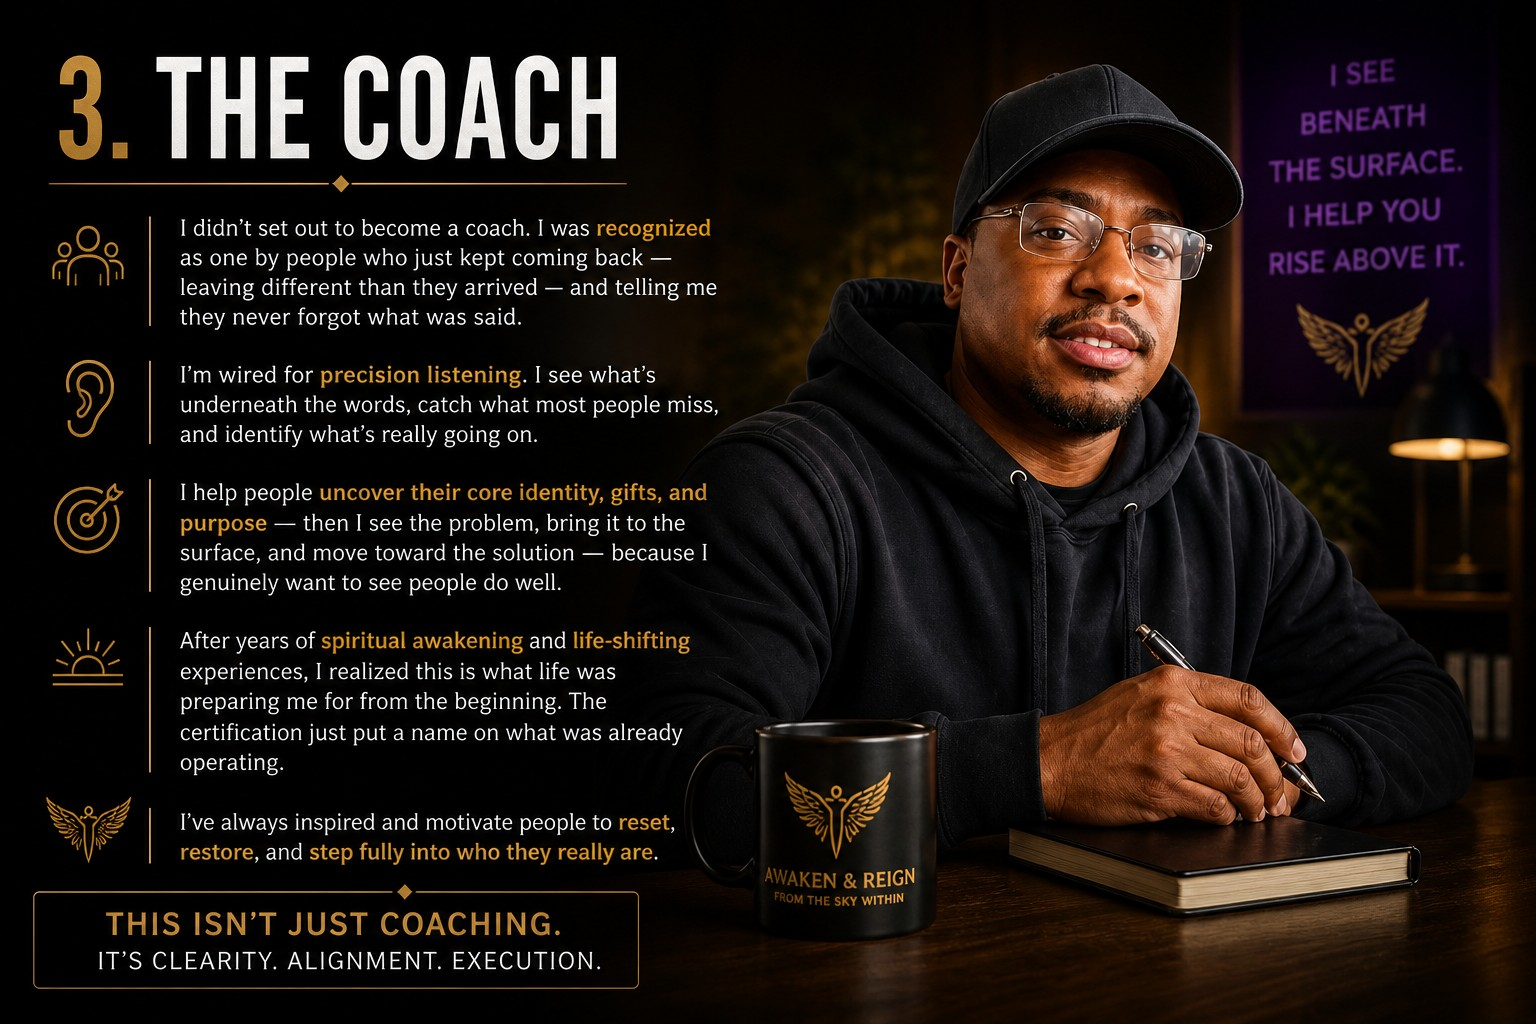
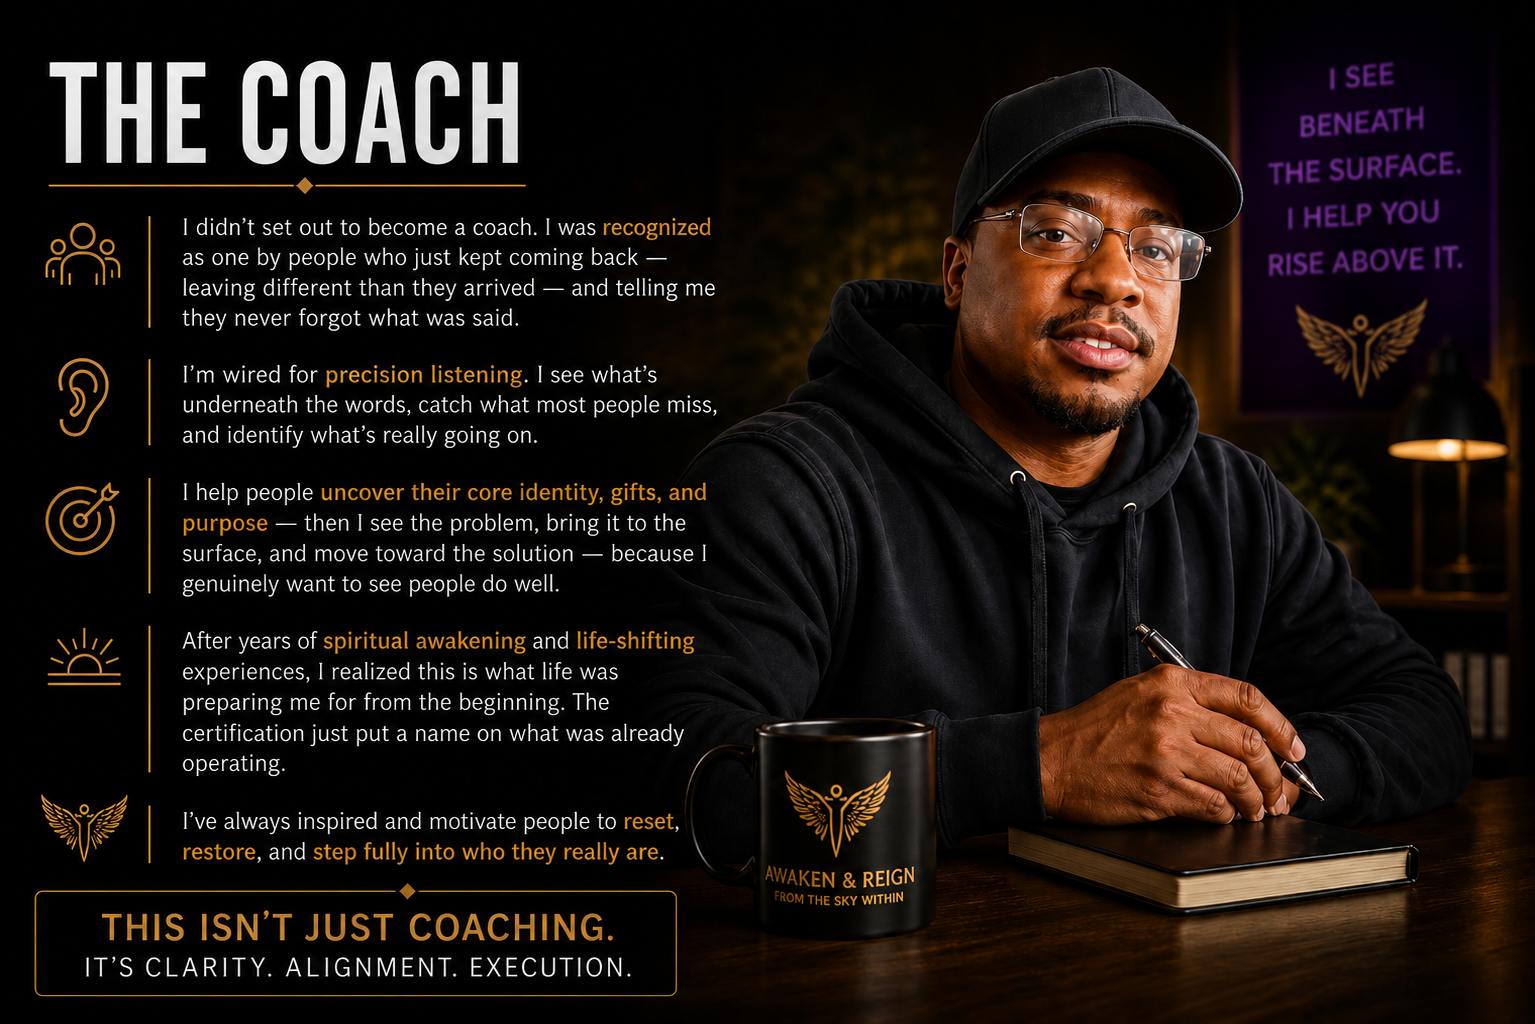
Add files via upload

diff --git a/index.html b/index.html
@@ -3,44 +3,32 @@
 <head>
 <meta charset="utf-8"><meta name="viewport" content="width=device-width, initial-scale=1">
 <title>Awaken & Reign Studios</title>
-<meta name="description" content="Life Coaching, Nervous System Reset, Brain Entrainment, Vibroacoustic Therapy, and Music Healing.">
+<meta name="description" content="Awaken & Reign Studios — Life coaching, nervous system reset, vibroacoustic therapy, brain entrainment, and music healing.">
 <link rel="preconnect" href="https://fonts.googleapis.com"><link rel="preconnect" href="https://fonts.gstatic.com" crossorigin>
 <link href="https://fonts.googleapis.com/css2?family=Cinzel:wght@600;700;800&family=Inter:wght@400;500;600;700&display=swap" rel="stylesheet">
 <link rel="stylesheet" href="styles.css">
 </head>
 <body>
-<header class="nav"><div class="brand">AWAKEN & REIGN</div><a class="navbtn" href="#contact">Begin</a></header>
-<main>
-<section class="hero">
-<img src="assets/01-hero.png" alt="Awaken and Reign Studios">
-<div class="heroText">
-<p class="eyebrow">From the Sky Within</p>
-<h1>AWAKEN & REIGN<br><span>STUDIOS</span></h1>
-<p class="services">Life Coaching • Nervous System Reset • Brain Entrainment • Vibroacoustic Therapy • Music Healing</p>
-<div class="buttons"><a class="button gold" href="https://www.facebook.com/" target="_blank">Message to Begin</a><a class="button outline" href="tel:+17855801679">Call or Text</a></div>
-</div>
-</section>
-
-<section class="image-card"><img src="assets/02-soul-identity.jpg" alt="Soul identity"></section>
-<section class="image-card"><img src="assets/03-weight-you-carry.png" alt="The weight you carry"></section>
-
-<section class="split"><img src="assets/04-vagus-nerve.jpg" alt="Vagus nerve"><div class="copy"><p class="eyebrow">Nervous System Reset</p><h2>The Body Comes Back To Safety First</h2><p>The vagus nerve connects the brain, heart, lungs, gut, and emotional regulation system. When the body leaves survival mode, clarity, rest, repair, and restoration become easier to access.</p><details><summary>Learn More</summary><p>The vagus nerve is one of the most important communication pathways in the body. Chronic stress, emotional overload, trauma, anxiety, or survival-mode living can leave the nervous system dysregulated. This may show up as anxiety, sleep issues, brain fog, overwhelm, emotional heaviness, or difficulty relaxing. The goal is helping the body shift from fight-or-flight into a calmer, restorative state where healing becomes possible.</p></details></div></section>
-
-<section class="split reverse"><img src="assets/05-coach.png" alt="The coach"><div class="copy"><p class="eyebrow">Identity & Alignment</p><h2>Blueprint Reading</h2><p>This work helps uncover core identity, gifts, purpose, emotional patterns, relationship dynamics, blocks, and the healing path that fits how you are wired.</p><details><summary>Learn More</summary><p>The Blueprint Reading is not traditional astrology. It uses ancient pattern recognition methods involving elements, animals, seasons, energetic patterns, and personality wiring. The purpose is self-understanding, not prediction. The reading is combined with your real life experiences, emotional blocks, nervous system patterns, and goals to guide personalized recommendations for coaching, brain entrainment, vibroacoustic therapy, emotional processing, creative expression, and alignment.</p></details></div></section>
-
-<section class="split"><img src="assets/06-brain-entrainment.png" alt="Brain entrainment"><div class="copy"><p class="eyebrow">Light + Sound</p><h2>Brain Entrainment</h2><p>Guided light and sound frequencies help shift the brain from stress, overwhelm, and mental noise into calmer states connected to clarity, focus, deep relaxation, and restoration.</p><details><summary>Learn More</summary><p>Brain entrainment uses selected frequencies of sound, rhythm, and light stimulation to encourage the brain to shift into different brainwave states. Visual light stimulation uses rhythmic pulses through the eyes and optic pathways. Binaural tones use slightly different tones in each ear, and the brain responds to the difference between them. These sessions may support stress reduction, relaxation, focus, emotional processing, nervous system regulation, and restorative states.</p></details></div></section>
-
-<section class="image-card"><img src="assets/07-brainwave-guide.png" alt="Brainwave guide"></section>
-<section class="image-card"><img src="assets/08-brainwave-chart.png" alt="Brainwave chart"></section>
-
-<section class="split reverse"><img src="assets/09-music-therapy.png" alt="Music therapy"><div class="copy"><p class="eyebrow">Optional Add-On</p><h2>Music & Vocal Expression</h2><p>Creative expression can become a powerful form of emotional release. Sometimes healing begins when what was trapped internally finally finds expression.</p></div></section>
-
-<section class="image-card"><img src="assets/10-testimonials.jpg" alt="Testimonials"></section>
-<section class="testimonials"><p class="eyebrow">Real Experiences</p><h2>What People Are Experiencing</h2><div class="grid"><article>★★★★★<p>“I felt my nervous system finally slow down for the first time in years.”</p><span>Session Experience</span></article><article>★★★★★<p>“The vibroacoustic session felt like my body remembered how to relax.”</p><span>Session Experience</span></article><article>★★★★★<p>“I left feeling mentally lighter, emotionally calmer, and physically reset.”</p><span>Session Experience</span></article></div></section>
-
-<section class="image-card"><img src="assets/11-final-message.jpg" alt="Final message"></section>
-
-<section id="contact" class="contact"><p class="eyebrow">Ready To Begin?</p><h2>You are not broken.<br>You may just be in the wrong state.</h2><p>Whether you are seeking clarity, emotional release, nervous system restoration, deeper self-understanding, or personal transformation — this work is designed to help you reconnect with who you truly are.</p><div class="buttons"><a class="button gold" href="https://www.facebook.com/" target="_blank">Facebook Messenger</a><a class="button outline" href="tel:+17855801679">Call / Text: (785) 580-1679</a><a class="button outline" href="mailto:[email redacted]">Email</a></div><p class="cashapp">Cash App: <strong>$Xcellblueprint</strong></p></section>
-<section class="image-card"><img src="assets/12-contact-footer.jpg" alt="Contact footer"></section>
-<footer><h3>AWAKEN & REIGN</h3><p>FROM THE SKY WITHIN</p><p>Shift your state. Change your life.</p></footer>
-</main></body></html>
+<header class="topbar"><a href="#top" class="brand">AWAKEN & REIGN</a><a href="#contact" class="top-button">Begin</a></header>
+<main id="top">
+<section class="panel full"><img src="assets/01-hero.png" alt="Awaken and Reign Studios"></section>
+<section class="panel"><img src="assets/02-soul.jpg" alt="Soul identity"></section>
+<section class="panel"><img src="assets/03-weight.png" alt="The weight you carry"></section>
+<section class="panel"><img src="assets/04-vagus.jpg" alt="Vagus nerve"></section>
+<section class="learn"><p class="eyebrow">Nervous System Reset</p><h2>The body comes back to safety first.</h2><details><summary>Learn More</summary><p>The vagus nerve is one of the body’s major communication pathways, connecting the brain, heart, lungs, gut, and nervous system.</p><p>When stress, trauma, anxiety, grief, or survival-mode living builds over time, the nervous system can stay on high alert. The goal is helping the body move toward regulation, safety, calm, and restoration.</p></details></section>
+<section class="panel"><img src="assets/05-coach.png" alt="The coach"></section>
+<section class="learn"><p class="eyebrow">Identity & Alignment Coaching</p><h2>Understand your wiring. Reconnect with who you are.</h2><details><summary>Learn More</summary><p>The Blueprint Reading is not traditional astrology. It uses ancient pattern recognition methods involving elements, animals, seasons, energetic patterns, and personality wiring.</p><p>The purpose is self-understanding, not prediction. It helps identify natural strengths, emotional tendencies, relationship dynamics, money patterns, career or entrepreneurial lanes, internal conflicts, repeating blocks, gifts, and purpose.</p><p>That insight is combined with your life experiences and current struggles to personalize coaching, nervous system work, brain entrainment, vibroacoustic therapy, emotional processing, and creative expression.</p></details><div class="cta-row"><a class="button gold" href="https://docs.google.com/forms/d/e/1FAIpQLSfs3_eT3UevLYMrKf-1YZpfzbIs9iT1134tiZ7iK4jW0TnIIw/viewform" target="_blank" rel="noopener">Begin Intake</a><a class="button outline" href="tel:+17855801679">Call or Text</a></div></section>
+<section class="panel"><img src="assets/06-vibroacoustic.png" alt="Vibroacoustic therapy"></section>
+<section class="learn"><p class="eyebrow">Vibroacoustic Therapy</p><h2>Sound you don’t just hear — you feel.</h2><details><summary>Learn More</summary><p>Vibroacoustic therapy uses low-frequency sound vibrations transmitted through the body using specialized equipment. Instead of only hearing sound, the body physically feels it.</p><p>Stress does not only live in the mind. Many people carry it physically through shallow breathing, muscle tension, guarded posture, tightness, emotional suppression, and nervous system dysregulation.</p><p>The vibration can support deep relaxation, emotional release, nervous system calming, tension release, and restoration.</p></details></section>
+<section class="panel"><img src="assets/07-brain-entrainment.png" alt="Brain entrainment"></section>
+<section class="learn"><p class="eyebrow">Brain Entrainment</p><h2>Light and sound guide the mind back into rhythm.</h2><details><summary>Learn More</summary><p>Brain entrainment uses selected frequencies of light, sound, rhythm, and binaural tones to encourage the brain to shift into different brainwave states.</p><p>Visual light stimulation uses rhythmic pulses through the eyes and optic pathways. Binaural tones use slightly different tones in each ear, and the brain responds to the difference between them.</p><p>These sessions may support stress reduction, relaxation, focus, emotional processing, nervous system regulation, sleep support, mental clarity, and restorative states.</p></details></section>
+<section class="panel"><img src="assets/08-brainwave.png" alt="Brainwave states"></section>
+<section class="panel"><img src="assets/09-music.png" alt="Music and vocal expression"></section>
+<section class="learn compact"><p class="eyebrow">Optional Add-On</p><h2>Music & Vocal Expression</h2><p>Creative expression can become a powerful form of emotional release. Sometimes healing begins when what was trapped internally finally finds expression.</p></section>
+<section class="panel"><img src="assets/10-testimonials.png" alt="Testimonials"></section>
+<section class="testimonial-cards"><p class="eyebrow">Real Experiences</p><h2>What People Are Experiencing</h2><div class="cards"><article><span>★★★★★</span><p>“I felt my nervous system finally slow down for the first time in years.”</p><small>Session Experience</small></article><article><span>★★★★★</span><p>“The vibroacoustic session felt like my body remembered how to relax.”</p><small>Session Experience</small></article><article><span>★★★★★</span><p>“I left feeling mentally lighter, emotionally calmer, and physically reset.”</p><small>Session Experience</small></article></div></section>
+<section class="panel"><img src="assets/11-closing.jpg" alt="Closing statement"></section>
+<section id="contact" class="contact"><p class="eyebrow">Ready To Begin?</p><h2>Awaken & Reign Studios</h2><p class="contact-copy">Life Coaching • Nervous System Reset • Vibroacoustic Therapy • Brain Entrainment • Music Healing</p><div class="cta-row contact-buttons"><a class="button gold" href="https://docs.google.com/forms/d/e/1FAIpQLSfs3_eT3UevLYMrKf-1YZpfzbIs9iT1134tiZ7iK4jW0TnIIw/viewform" target="_blank" rel="noopener">Begin Intake</a><a class="button outline" href="tel:+17855801679">Call / Text (785) 580-1679</a><a class="button outline" href="mailto:[email redacted]">Email</a></div><div class="contact-grid"><div><strong>Phone</strong><br>(785) 580-1679</div><div><strong>Email</strong><br>[email redacted]</div><div><strong>Facebook Messenger</strong><br>Awaken and Reign Studios</div><div><strong>Cash App</strong><br>$Xcellblueprint</div></div><p class="final-line">From the Sky Within</p></section>
+</main>
+</body>
+</html>

diff --git a/styles.css b/styles.css
@@ -1,1 +1,1 @@
-:root{--black:#050505;--gold:#d4a44f;--purple:#8b5cf6;--soft:#f5f5f5;--muted:#cfcfcf}*{box-sizing:border-box}html{scroll-behavior:smooth}body{margin:0;background:var(--black);color:var(--soft);font-family:Inter,system-ui,sans-serif}img{max-width:100%;display:block}.nav{position:fixed;top:0;left:0;right:0;z-index:50;display:flex;align-items:center;justify-content:space-between;padding:18px 6vw;background:linear-gradient(to bottom,rgba(0,0,0,.75),rgba(0,0,0,.05));backdrop-filter:blur(8px)}.brand{font-family:Cinzel,serif;color:var(--gold);font-weight:800;letter-spacing:.12em;font-size:14px}.navbtn{color:#000;background:var(--gold);padding:10px 18px;border-radius:999px;text-decoration:none;font-weight:800}.hero{position:relative;min-height:100vh;background:#000;overflow:hidden}.hero>img{position:absolute;inset:0;width:100%;height:100%;object-fit:cover;opacity:.9}.hero:after{content:"";position:absolute;inset:0;background:linear-gradient(to bottom,rgba(0,0,0,.72),rgba(0,0,0,.22),rgba(0,0,0,.9))}.heroText{position:relative;z-index:2;min-height:100vh;display:flex;flex-direction:column;align-items:center;justify-content:center;text-align:center;padding:120px 22px 80px}.eyebrow{text-transform:uppercase;letter-spacing:.35em;color:var(--gold);font-size:12px;font-weight:800}h1,h2,h3{font-family:Cinzel,serif;margin:0}h1{font-size:clamp(42px,8vw,94px);line-height:.95;color:var(--gold);text-shadow:0 0 30px rgba(212,164,79,.3)}h1 span{font-size:.5em;color:#fff;letter-spacing:.25em}.services{max-width:850px;font-size:clamp(16px,2vw,22px);line-height:1.7;color:#f2f2f2}.buttons{display:flex;gap:14px;flex-wrap:wrap;justify-content:center;margin-top:30px}.button{display:inline-flex;align-items:center;justify-content:center;min-height:48px;padding:13px 23px;border-radius:999px;text-decoration:none;font-weight:900;letter-spacing:.03em;transition:.25s}.button.gold{background:var(--gold);color:#000}.button.outline{border:1px solid rgba(212,164,79,.8);color:var(--gold);background:rgba(0,0,0,.3)}.button:hover{transform:translateY(-2px);box-shadow:0 0 28px rgba(212,164,79,.25)}.image-card{padding:42px clamp(14px,4vw,70px);background:radial-gradient(circle at 50% 10%,rgba(139,92,246,.13),transparent 35%),#050505}.image-card img{width:100%;max-width:1180px;margin:auto;border-radius:28px;border:1px solid rgba(212,164,79,.22);box-shadow:0 24px 80px rgba(0,0,0,.7)}.split{display:grid;grid-template-columns:1.05fr .95fr;gap:38px;align-items:center;max-width:1180px;margin:auto;padding:70px clamp(18px,5vw,70px);background:#050505}.split.reverse img{order:2}.split img{border-radius:28px;border:1px solid rgba(212,164,79,.25);box-shadow:0 20px 70px rgba(139,92,246,.13)}.copy h2{font-size:clamp(32px,5vw,58px);line-height:1.05;color:#fff;margin:10px 0 18px}.copy p,.contact p{color:var(--muted);font-size:18px;line-height:1.75}details{margin-top:25px;background:linear-gradient(145deg,rgba(212,164,79,.08),rgba(139,92,246,.08));border:1px solid rgba(212,164,79,.32);border-radius:20px;overflow:hidden}summary{cursor:pointer;list-style:none;color:var(--gold);font-weight:900;padding:18px 22px}summary::-webkit-details-marker{display:none}details p{padding:0 22px 22px;font-size:16px!important;line-height:1.75!important}.testimonials{padding:90px clamp(18px,5vw,70px);text-align:center;background:radial-gradient(circle at center,rgba(212,164,79,.14),transparent 38%),#050505}.testimonials h2{font-size:clamp(34px,5vw,62px);margin:10px 0 40px}.grid{display:grid;grid-template-columns:repeat(3,1fr);gap:20px;max-width:1100px;margin:auto;text-align:left}.grid article{background:rgba(255,255,255,.045);border:1px solid rgba(212,164,79,.25);border-radius:24px;padding:24px;color:var(--gold)}.grid p{color:#eee;line-height:1.7}.grid span{color:#aaa}.contact{text-align:center;padding:110px clamp(20px,6vw,90px);background:radial-gradient(circle at 50% 0%,rgba(212,164,79,.25),transparent 42%),linear-gradient(to bottom,#080808,#000)}.contact h2{font-size:clamp(36px,6vw,76px);color:var(--gold);line-height:1.05}.contact p{max-width:850px;margin:22px auto}.cashapp{color:var(--gold)!important}footer{text-align:center;padding:45px 20px;border-top:1px solid rgba(212,164,79,.25);background:#000}footer h3{color:var(--gold);font-size:28px}footer p{color:#aaa}@media(max-width:800px){.nav{padding:14px 18px}.brand{font-size:12px}.split,.split.reverse{grid-template-columns:1fr;padding:38px 16px}.split.reverse img{order:0}.grid{grid-template-columns:1fr}.image-card{padding:24px 10px}.image-card img,.split img{border-radius:18px}}
+*{box-sizing:border-box}:root{--bg:#050505;--gold:#d4a44f;--purple:#8b5cf6;--white:#f5f5f5;--muted:#cfcfcf}html{scroll-behavior:smooth}body{margin:0;background:var(--bg);color:var(--white);font-family:Inter,system-ui,sans-serif}img{display:block;max-width:100%}.topbar{position:fixed;top:0;left:0;right:0;z-index:100;display:flex;justify-content:space-between;align-items:center;padding:14px clamp(16px,5vw,70px);background:linear-gradient(to bottom,rgba(0,0,0,.82),rgba(0,0,0,.18),transparent);backdrop-filter:blur(8px)}.brand{color:var(--gold);text-decoration:none;font-family:Cinzel,serif;letter-spacing:.16em;font-size:14px;font-weight:800}.top-button{background:var(--gold);color:#000;text-decoration:none;font-weight:800;padding:9px 18px;border-radius:999px}.panel{padding:36px clamp(10px,4vw,60px);background:radial-gradient(circle at 50% 0%,rgba(139,92,246,.14),transparent 34%),linear-gradient(to bottom,#050505,#090909,#050505)}.panel.full{min-height:100vh;padding:0}.panel.full img{width:100%;min-height:100vh;object-fit:cover;border-radius:0;border:none;box-shadow:none}.panel img{width:100%;max-width:1180px;margin:0 auto;border-radius:28px;border:1px solid rgba(212,164,79,.22);box-shadow:0 24px 90px rgba(0,0,0,.75),0 0 45px rgba(139,92,246,.10)}.learn{max-width:1050px;margin:0 auto;padding:26px clamp(18px,5vw,70px) 74px}.learn.compact{text-align:center}.eyebrow{color:var(--gold);text-transform:uppercase;letter-spacing:.35em;font-size:12px;font-weight:800}h1,h2,h3{font-family:Cinzel,serif;margin:0}.learn h2,.testimonial-cards h2,.contact h2{font-size:clamp(32px,5vw,62px);line-height:1.05;margin:10px 0 18px}.learn p,.contact p{color:var(--muted);font-size:18px;line-height:1.75}details{margin-top:22px;border:1px solid rgba(212,164,79,.34);border-radius:22px;overflow:hidden;background:linear-gradient(145deg,rgba(212,164,79,.08),rgba(139,92,246,.08))}summary{cursor:pointer;list-style:none;color:var(--gold);font-weight:900;padding:18px 22px}summary::-webkit-details-marker{display:none}details p{padding:0 22px 20px;margin:0;font-size:16px!important}.cta-row{display:flex;justify-content:center;flex-wrap:wrap;gap:14px;margin-top:28px}.button{display:inline-flex;align-items:center;justify-content:center;min-height:48px;padding:13px 24px;border-radius:999px;text-decoration:none;font-weight:900;letter-spacing:.03em;transition:.25s}.button.gold{background:var(--gold);color:#000}.button.outline{border:1px solid rgba(212,164,79,.82);color:var(--gold);background:rgba(0,0,0,.2)}.button:hover{transform:translateY(-2px);box-shadow:0 0 30px rgba(212,164,79,.24)}.testimonial-cards{padding:80px clamp(18px,5vw,70px);text-align:center;background:radial-gradient(circle at center,rgba(212,164,79,.14),transparent 40%),#050505}.cards{display:grid;grid-template-columns:repeat(3,1fr);gap:20px;max-width:1080px;margin:36px auto 0;text-align:left}.cards article{background:rgba(255,255,255,.05);border:1px solid rgba(212,164,79,.26);border-radius:24px;padding:24px}.cards span{color:var(--gold)}.cards p{line-height:1.7;color:#eee}.cards small{color:#aaa}.contact{text-align:center;padding:105px clamp(18px,6vw,90px);background:radial-gradient(circle at 50% 0%,rgba(212,164,79,.22),transparent 42%),linear-gradient(to bottom,#090909,#000)}.contact h2{color:var(--gold)}.contact-copy{max-width:900px;margin:20px auto}.contact-grid{max-width:1000px;margin:44px auto 0;display:grid;grid-template-columns:repeat(4,1fr);gap:16px}.contact-grid div{border:1px solid rgba(212,164,79,.25);background:rgba(255,255,255,.045);padding:20px;border-radius:20px;color:#ddd;line-height:1.6}.contact-grid strong{color:var(--gold)}.final-line{color:var(--gold)!important;font-family:Cinzel,serif;letter-spacing:.12em;margin-top:40px!important}@media(max-width:800px){.topbar{padding:12px 16px}.brand{font-size:12px}.panel{padding:24px 9px}.panel.full img{min-height:72vh}.panel img{border-radius:18px}.learn{padding:24px 18px 56px}.cards,.contact-grid{grid-template-columns:1fr}.contact{padding:80px 18px}}

diff --git a/README.md b/README.md
@@ -1,11 +1,1 @@
-# Awaken & Reign Studios Website
-
-## Fast launch
-1. Create a GitHub repository.
-2. Upload `index.html`, `styles.css`, and the `assets` folder.
-3. Go to Vercel.com and import the GitHub repository.
-4. Click Deploy.
-
-## Update later
-- Replace any image in `assets` with a new image using the same filename.
-- In `index.html`, replace the Facebook links with your real Messenger link.
+Awaken & Reign Studios final site. Upload index.html, styles.css, and assets folder to GitHub root.